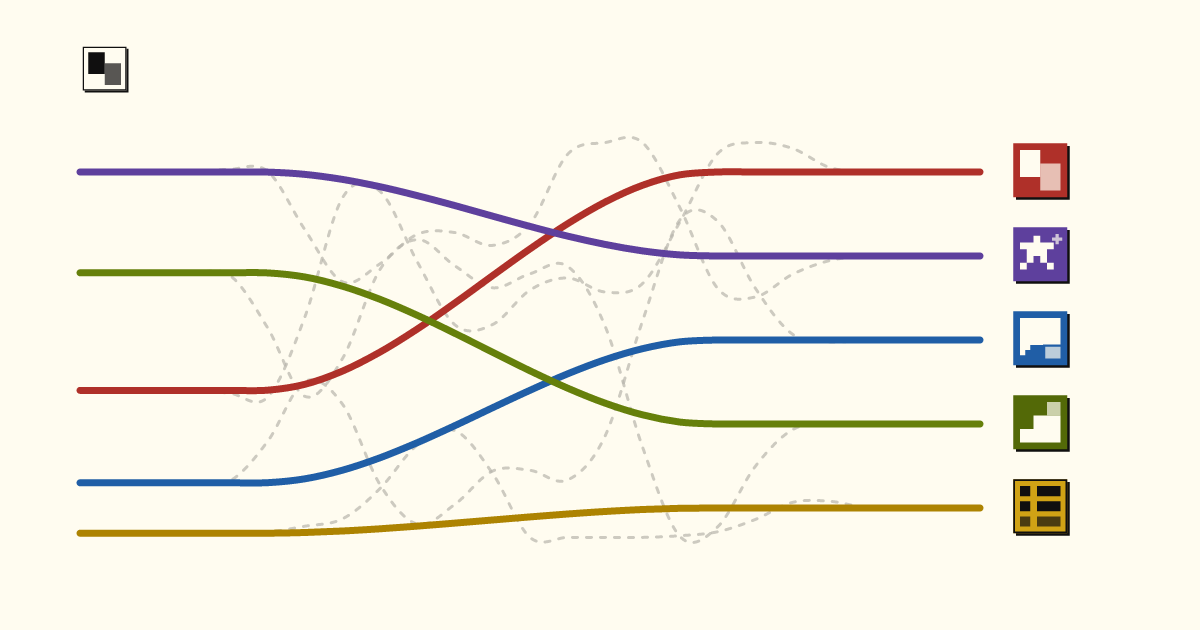
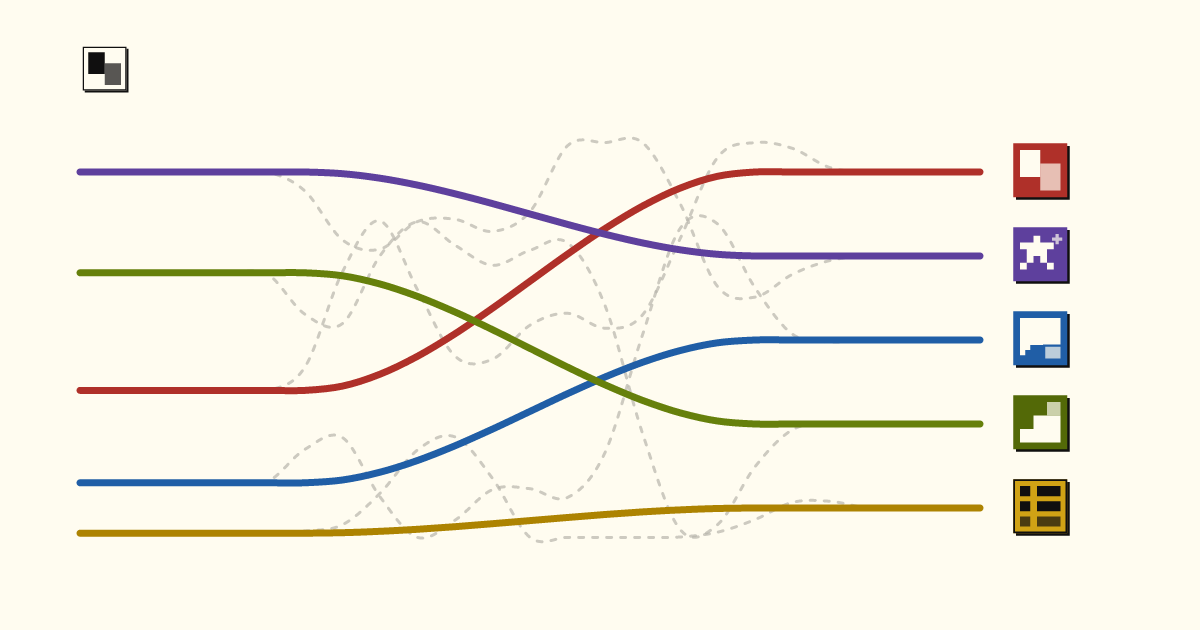
Marketing: a fuller chat, marks that land sooner, labels on paper
The chat sample opens on an exchange already under way (four messages),
so the pane is full at first paint; two more arrive one at a time and
the reply still answers. The detangle is 300 ms + 1.5 s and the marks
land once every rail's far end is straight (t = 0.8), with a tighter
stagger: all five are in by about 2 s on desktop and phone. Each source
label sits on a slip of paper, so a line passing under it never runs
through the words, and the wide layout's calm run-in grows to 20%.

Claude-Session: https://claude.ai/code/session_019pWjq1DGMzTGqvgjEVCYti

diff --git a/e2e/marketing.spec.ts b/e2e/marketing.spec.ts
@@ -32,6 +32,21 @@ async function lines(page: Page): Promise<string[]> {
     .evaluateAll((els) => els.map((el) => el.getAttribute("d") ?? ""));
 }
 
+/**
+ * The lines once they stop moving: the marks arrive while the mess is still
+ * settling, so "done" comes a little before the last frame.
+ */
+async function settledLines(page: Page): Promise<string[]> {
+  let last = await lines(page);
+  for (let i = 0; i < 40; i++) {
+    await page.waitForTimeout(150);
+    const next = await lines(page);
+    if (next.join() === last.join()) return next;
+    last = next;
+  }
+  return last;
+}
+
 /** Waits until the page has hydrated: the samples answer from then on. */
 async function ready(page: Page): Promise<void> {
   await expect(page.locator('[data-marketing="ready"]')).toBeAttached({
@@ -62,7 +77,7 @@ test("the hero tangles first, then straightens into five rails that end in the p
   await expect(tangle).toHaveAttribute("data-tangle", "done", {
     timeout: 10_000,
   });
-  const done = await lines(page);
+  const done = await settledLines(page);
   expect(done).not.toEqual(mid);
   const ends = figure(page).getByRole("list", {
     name: "The five parts of Terpsicle",
@@ -93,7 +108,7 @@ test("the hero tangles first, then straightens into five rails that end in the p
   await expect(tangle).toHaveAttribute("data-tangle", "done", {
     timeout: 10_000,
   });
-  expect(await lines(page)).toEqual(done);
+  expect(await settledLines(page)).toEqual(done);
 });
 
 test("the page never scrolls sideways on a phone", async ({ page }) => {
@@ -157,7 +172,7 @@ test.describe("with reduced motion", () => {
     const messages = chat.getByRole("list", {
       name: "Messages in CMSC351 0301",
     });
-    await expect(messages.getByRole("listitem")).toHaveCount(3);
+    await expect(messages.getByRole("listitem")).toHaveCount(6);
     await chat
       .getByRole("textbox", { name: "Message CMSC351 0301" })
       .fill("Room?");
@@ -188,8 +203,9 @@ test("chat messages arrive one at a time", async ({ page }) => {
   await page.goto("/?stay");
   const chat = await block(page, "chat");
   const messages = chat.getByRole("list", { name: "Messages in CMSC351 0301" });
-  await expect(messages.getByText(/^Is the Friday discussion/)).toBeVisible();
-  // The first is there and the last isn't yet: they come one at a time.
+  await expect(messages.getByText(/^After, 11:59 pm/)).toBeVisible();
+  // The room's exchange is there and the last message isn't yet: they come
+  // one at a time.
   await expect(messages.getByText(/^Midterm study group/)).toHaveCount(0);
   await expect(messages.getByText(/^Midterm study group/)).toBeVisible({
     timeout: 10_000,

diff --git a/src/features/marketing/samples/chat-sample.tsx b/src/features/marketing/samples/chat-sample.tsx
@@ -35,9 +35,30 @@ const ARRIVING: Omit<Message, "id">[] = [
     tone: "b",
   },
   {
+    who: "Maya Okafor",
+    initials: "MO",
+    when: "2:16 pm",
+    text: "Thanks. Is the problem set due before or after that?",
+    tone: "a",
+  },
+  {
     who: "Priya Nair",
     initials: "PN",
+    when: "2:20 pm",
+    text: "After, 11:59 pm. Ashdown said the last two questions are extra credit.",
+    tone: "c",
+  },
+  {
+    who: "Devin Ruiz",
+    initials: "DR",
     when: "2:31 pm",
+    text: "Anyone want to go over recurrences before the midterm?",
+    tone: "b",
+  },
+  {
+    who: "Priya Nair",
+    initials: "PN",
+    when: "2:32 pm",
     text: "Midterm study group in McKeldin, Sunday 2 pm. I'll post the room.",
     tone: "c",
   },
@@ -71,8 +92,8 @@ const ARRIVE_EVERY_MS = 1500;
 const TYPING_MS = 700;
 
 const ALL: Message[] = ARRIVING.map((m, id) => ({ ...m, id }));
-/** The first message is already there on the server render; two more come. */
-const OPENING: Message[] = ALL.slice(0, 1);
+/** The room already has an exchange going on the server render; two more come. */
+const OPENING: Message[] = ALL.slice(0, 4);
 
 export function ChatSample({ active, reduced }: SampleProps) {
   const [messages, setMessages] = useState<Message[]>(OPENING);
@@ -166,7 +187,7 @@ export function ChatSample({ active, reduced }: SampleProps) {
     >
       <ul
         aria-label={`Messages in ${ROOM.course} ${ROOM.section}`}
-        className="mk-chat-log flex h-[248px] flex-col justify-end gap-3 overflow-hidden px-3 py-3"
+        className="mk-chat-log flex h-[232px] flex-col justify-end gap-3 overflow-hidden px-3 py-3"
       >
         {messages.map((m) => (
           <li key={m.id} className="mk-arrive flex items-start gap-3">

diff --git a/src/features/marketing/tangle.ts b/src/features/marketing/tangle.ts
@@ -37,11 +37,17 @@ export const TANGLE_SIZE: Record<
 export const POINTS = 25;
 
 /** Before the detangle starts, so the tangle registers first. */
-export const DETANGLE_DELAY_MS = 350;
+export const DETANGLE_DELAY_MS = 300;
 /** The whole detangle, first move to last settle. */
-export const DETANGLE_MS = 1700;
+export const DETANGLE_MS = 1500;
 /** Each line starts this much after the one before it. */
-export const STAGGER_MS = 70;
+export const STAGGER_MS = 60;
+/**
+ * How far along the detangle the marks arrive: by then the far end of every
+ * rail is straight (progressAt(1, t) is 1 from t = 0.75), so the marks land
+ * on rails that are already there while the mess is still settling.
+ */
+export const MARKS_AT = 0.8;
 
 /**
  * Where each line starts and ends across the flow, in color order. The
@@ -69,7 +75,7 @@ export const WOBBLE = {
  * How far along the flow the lines run calm before the tangle: room for the
  * wide layout's labels at the lines' starts; the tall one has none.
  */
-export const CALM: Record<TangleLayout, number> = { wide: 0.15, tall: 0.03 };
+export const CALM: Record<TangleLayout, number> = { wide: 0.2, tall: 0.03 };
 
 export type Point = readonly [x: number, y: number];
 
@@ -232,6 +238,7 @@ export const TANGLE_CONFIG = {
   delayMs: DETANGLE_DELAY_MS,
   durationMs: DETANGLE_MS,
   staggerMs: STAGGER_MS,
+  marksAt: MARKS_AT,
   start: START,
   slot: SLOT,
   wobble: WOBBLE,

diff --git a/src/features/marketing/marketing.css b/src/features/marketing/marketing.css
@@ -233,9 +233,14 @@
   stroke-width: 2px;
   stroke-dasharray: 3 6;
 }
+/* Each label sits on a slip of paper, so a line passing under it never runs
+   through the words. */
 .mk-label {
   position: absolute;
   left: 0;
+  padding-inline: 4px;
+  margin-left: -4px;
+  background: var(--bg);
   white-space: nowrap;
   line-height: 16px;
 }
@@ -246,8 +251,8 @@
    simply stand there. */
 .mk-end {
   transition:
-    opacity 0.35s ease-out calc(60ms * var(--i, 0)),
-    transform 0.5s var(--mk-spring) calc(60ms * var(--i, 0));
+    opacity 0.3s ease-out calc(45ms * var(--i, 0)),
+    transform 0.45s var(--mk-spring) calc(45ms * var(--i, 0));
 }
 [data-tangle="playing"] .mk-end {
   opacity: 0;

diff --git a/src/features/marketing/tangle-script.ts b/src/features/marketing/tangle-script.ts
@@ -94,8 +94,8 @@ export function playTangle(
       if (!started) started = now + config.delayMs;
       const t = Math.min(1, Math.max(0, (now - started) / config.durationMs));
       draw(t);
+      if (t >= config.marksAt) root.setAttribute(attr, "done");
       if (t < 1) frame = requestAnimationFrame(step);
-      else root.setAttribute(attr, "done");
     };
     frame = requestAnimationFrame(step);
   };

diff --git a/src/features/marketing/samples/samples.test.tsx b/src/features/marketing/samples/samples.test.tsx
@@ -99,7 +99,7 @@ describe("ChatSample", () => {
     const messages = within(
       screen.getByRole("list", { name: "Messages in CMSC351 0301" }),
     );
-    expect(messages.getAllByRole("listitem")).toHaveLength(3);
+    expect(messages.getAllByRole("listitem")).toHaveLength(6);
   });
 
   it("sends a message and gets a reply, from the keyboard", async () => {
